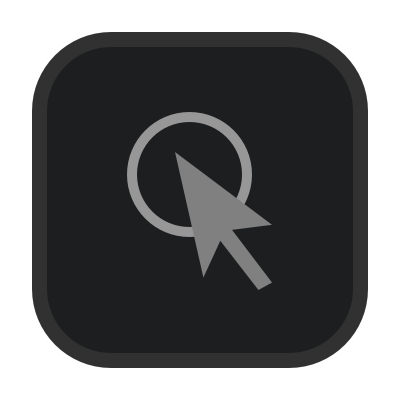
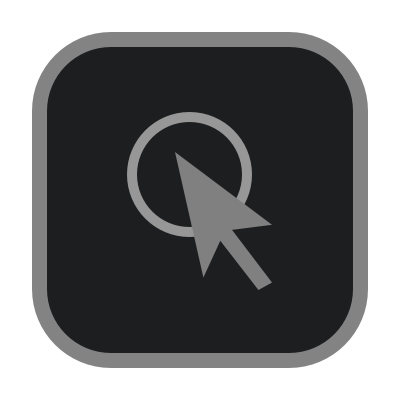
updated sized box sizes

Changed region(s): [[0.06, 0.06, 0.93, 0.93]]

diff --git a/lib/pages/iconchoosersheet_page.dart b/lib/pages/iconchoosersheet_page.dart
@@ -30,6 +30,7 @@ class _IconChooserSheetPageState extends ConsumerState<IconChooserSheetPage> {
     final String appName = widget.appFile.name.replaceAll('.app', '');
 
     return MacosSheet(
+      insetAnimationDuration: Duration(milliseconds: 200),
       child: Padding(
         padding: const EdgeInsets.all(20),
         child: Center(
@@ -49,14 +50,23 @@ class _IconChooserSheetPageState extends ConsumerState<IconChooserSheetPage> {
                       fontWeight: FontWeight.bold,
                     ),
                   ),
-                  SizedBox(height: 30),
+                  SizedBox(height: 20),
                   Stack(
                     alignment: Alignment.center,
                     children: [
-                      Image(
-                        image: AssetImage('assets/alter_icon_frame.png'),
-                        width: 155,
-                        height: 155,
+                      Container(
+                        decoration: BoxDecoration(boxShadow: [
+                          BoxShadow(
+                            color: CupertinoColors.darkBackgroundGray,
+                            blurRadius: 20,
+                            offset: Offset(0, 10),
+                          ),
+                        ]),
+                        child: Image(
+                          image: AssetImage('assets/alter_icon_frame.png'),
+                          width: 155,
+                          height: 155,
+                        ),
                       ),
                       GestureDetector(
                         onTap: () async {
@@ -79,7 +89,7 @@ class _IconChooserSheetPageState extends ConsumerState<IconChooserSheetPage> {
                       ),
                     ],
                   ),
-                  SizedBox(height: 30),
+                  SizedBox(height: 25),
                   Text(
                     currentPickedIcon != null
                         ? 'You can modify by left-clicking again!'
